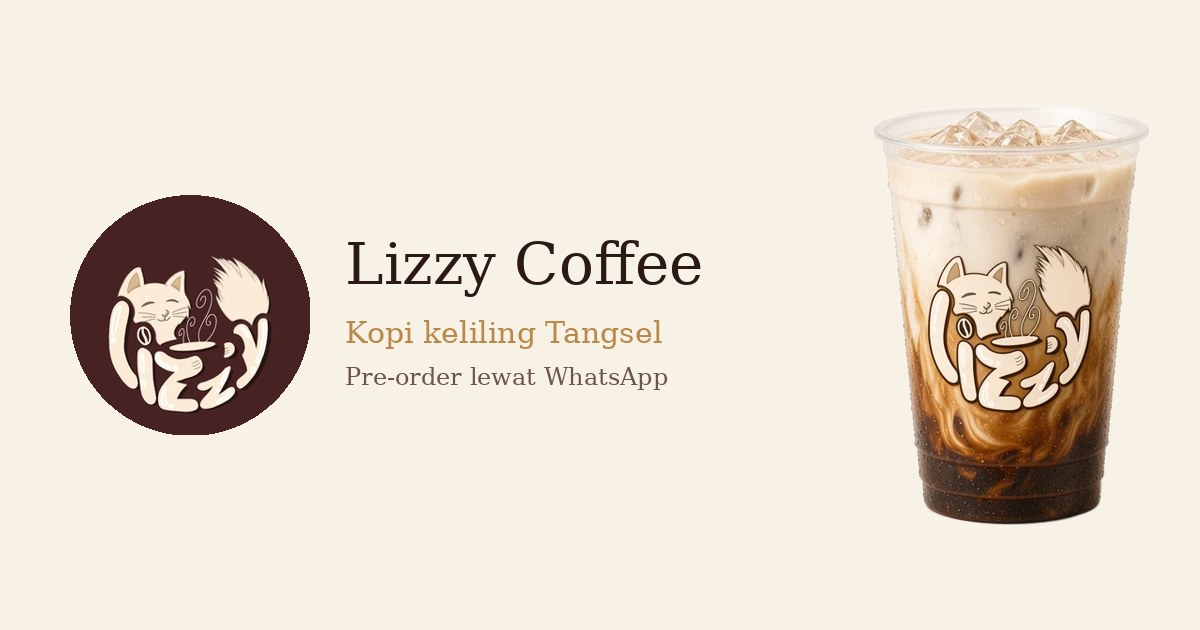
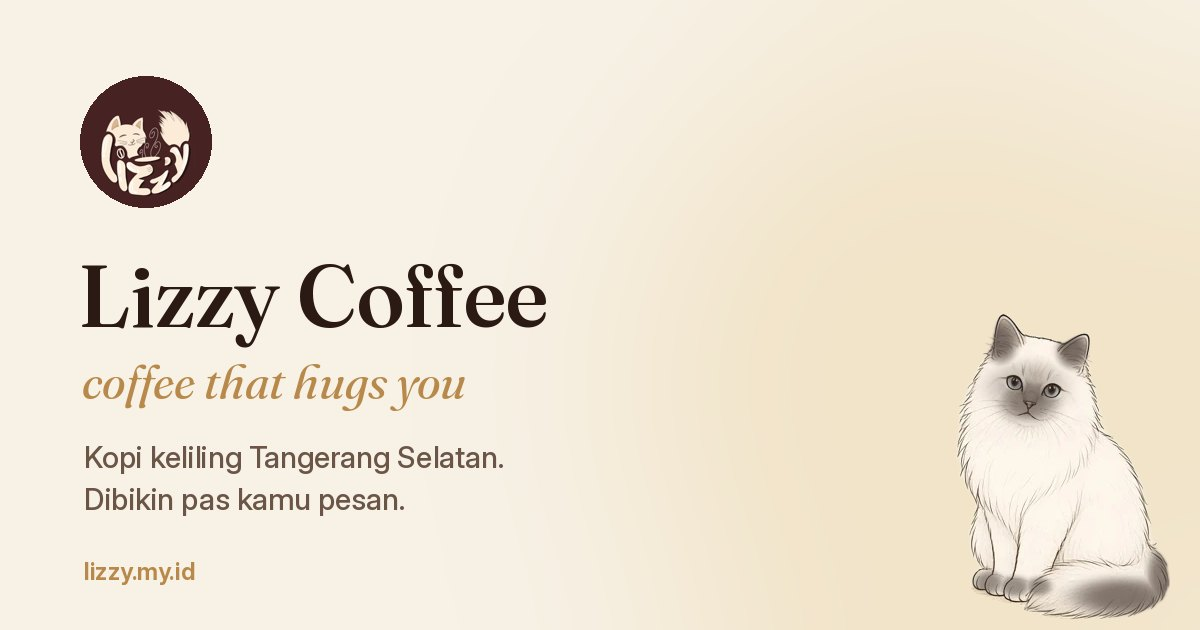
feat(landing): badge buka/istirahat live, Habis real-time, Find Lizzy today + petunjuk arah, OG/Twitter meta + og.jpg baru

diff --git a/src/scripts/live.js b/src/scripts/live.js
@@ -1,4 +1,7 @@
-// Status live: posisi Lizzy + menu habis, di-poll tiap 60 detik dari /api/public/status.
+// Status live: badge buka/istirahat, posisi Lizzy, 'Find Lizzy today', menu habis.
+// /api/public/status di-poll tiap 60 detik; /api/public/landing sekali saat load (soldOut per menu).
+// Gagal (CORS/jaringan) = diam: badge tetap hidden, data build-time dipakai.
+import L from 'leaflet';
 const API = (window.LZ_API || 'https://coffe.lizzy.my.id/api/public').replace(/\/$/, '');
 const KEY = 'lz-status';
 const titik = (() => { try { return JSON.parse(document.getElementById('landing-data').textContent).titik || []; } catch { return []; } })();
@@ -15,16 +18,69 @@ function apply(s) {
   document.querySelectorAll('[data-live-lbl]').forEach((el) => { el.textContent = hasEta ? 'Lizzy sekarang di' : 'Lagi di'; });
   document.querySelectorAll('[data-until-lbl]').forEach((el) => { el.textContent = hasEta ? 'buka s/d' : 'buka sampai jam'; });
   if (s.openUntil != null) set('until', s.openUntil);
-  if (Array.isArray(s.soldOut)) {
-    const out = new Set(s.soldOut);
-    document.querySelectorAll('.mitem[data-id]').forEach((li) => {
-      const isOut = out.has(li.dataset.id);
-      li.classList.toggle('out', isOut);
-      li.querySelectorAll('.mi-add').forEach((a) => { a.hidden = isOut; });
-    });
-  }
+  badge(s);
+  today(s);
   document.dispatchEvent(new CustomEvent('lz:status', { detail: s }));
 }
+
+const hhmm = (v) => String(v ?? '').trim().replace(/^(\d{1,2})[:.](\d{2}).*$/, (_, h, m) => `${h.padStart(2, '0')}.${m}`);
+function badge(s) {
+  const b = document.querySelector('[data-live-badge]'); if (!b || typeof s.open !== 'boolean') return;
+  const until = s.openUntil ? hhmm(s.openUntil) : '';
+  b.querySelector('[data-live-badge-txt]').textContent = s.open ? (until ? `Lizzy lagi buka, sampai ${until}` : 'Lizzy lagi buka') : 'Lagi istirahat';
+  b.classList.toggle('is-open', s.open); b.hidden = false;
+}
+
+// ---- Find Lizzy today (peta + petunjuk arah); tanpa titik = section tetap hidden ----
+let tMap, tMark;
+function today(s) {
+  const sec = document.querySelector('[data-today]'); if (!sec) return;
+  const t = s.titikId != null ? titik.find((x) => String(x.id) === String(s.titikId)) : null;
+  const lat = Number.isFinite(+s.lat) && s.lat !== null ? +s.lat : t ? +t.lat : NaN;
+  const lng = Number.isFinite(+s.lng) && s.lng !== null ? +s.lng : t ? +t.lng : NaN;
+  if (s.open === false || !Number.isFinite(lat) || !Number.isFinite(lng)) { sec.hidden = true; return; }
+  sec.hidden = false; sec.dataset.lat = lat; sec.dataset.lng = lng;
+  const nm = sec.querySelector('[data-today-name]'), ad = sec.querySelector('[data-today-addr]');
+  if (t) { nm.textContent = t.name; ad.textContent = t.address ?? ''; }
+  sec.querySelector('[data-today-dir]').href = `https://www.google.com/maps/dir/?api=1&destination=${lat},${lng}`;
+  drawToday(sec, lat, lng);
+}
+function drawToday(sec, lat, lng) {
+  const el = sec.querySelector('#mapToday'); if (!el) return;
+  if (!tMap) {
+    tMap = L.map(el, { zoomControl: false, scrollWheelZoom: false, dragging: !L.Browser.mobile, tap: false, attributionControl: true });
+    tMap.attributionControl.setPrefix('<a href="https://leafletjs.com">Leaflet</a>');
+    L.tileLayer('https://tile.openstreetmap.org/{z}/{x}/{y}.png', { attribution: '&copy; <a href="https://www.openstreetmap.org/copyright">OpenStreetMap</a> contributors', maxZoom: 19, referrerPolicy: 'strict-origin-when-cross-origin' }).addTo(tMap);
+    tMark = L.marker([lat, lng], { icon: L.divIcon({ className: 'lz-pin-wrap', html: '<div class="lz-pin"><span class="ring"></span><img src="img/logo.webp" alt=""></div>', iconSize: [54, 60], iconAnchor: [27, 64] }) }).addTo(tMap);
+  } else tMark.setLatLng([lat, lng]);
+  tMap.setView([lat, lng], 16, { animate: false });
+}
+{ const sec = document.querySelector('[data-today]'); if (sec && !sec.hidden && sec.dataset.lat) drawToday(sec, +sec.dataset.lat, +sec.dataset.lng); }
+
+// ---- 'Habis' real-time per menu (aturan: kalau SEMUA soldOut, abaikan) ----
+const norm = (x) => String(x ?? '').toLowerCase().replace(/[^a-z0-9]+/g, ' ').trim();
+async function stock() {
+  try {
+    const r = await fetch(`${API}/landing`, { headers: { Accept: 'application/json' } });
+    if (!r.ok) return;
+    const j = await r.json(); const d = j?.data ?? j;
+    const list = Array.isArray(d?.menuLengkap) ? d.menuLengkap : [];
+    if (!list.length) return;
+    const allOut = list.every((m) => m?.soldOut);
+    const byName = new Map(list.map((m) => [norm(m.name), !!m.soldOut])), byId = new Map(list.map((m) => [String(m.id), !!m.soldOut]));
+    document.querySelectorAll('.mitem[data-id]').forEach((li) => {
+      const v = byName.get(norm(li.dataset.n)) ?? byId.get(li.dataset.id);
+      if (v === undefined) return;
+      const isOut = allOut ? false : v;
+      li.classList.toggle('out', isOut);
+      li.querySelectorAll('.mi-add').forEach((a) => { a.hidden = isOut; });
+      let na = li.querySelector('.mi-na');
+      if (isOut && !na) { na = document.createElement('span'); na.className = 'mi-na'; na.textContent = 'Besok lagi ya'; li.querySelector('.mi-foot')?.append(na); }
+      if (na) na.hidden = !isOut;
+    });
+  } catch { /* CORS/jaringan: pakai data build-time */ }
+}
+stock();
 
 async function poll() {
   if (document.hidden) return;

diff --git a/src/styles/main.css b/src/styles/main.css
@@ -456,3 +456,17 @@ a.ojol-btn:active{transform:scale(.97)}
 .ojol-btn.is-soon img,.ojol-btn.is-soon b{opacity:.55}
 .ojol-btn em{position:absolute;top:-8px;right:-6px;font:600 9.5px/1 var(--sans);font-style:normal;letter-spacing:.04em;padding:4px 7px;border-radius:99px;background:var(--acc);color:var(--acc-ink);white-space:nowrap}
 @media (max-width:420px){.ojol-btn{min-width:0;flex:1;padding:0 10px}.ojol ul li{flex:1;display:flex}.ojol-btn img{height:15px}.o-shopeefood img{height:19px}.ojol-btn b{font-size:12px}}
+
+/* ===== live badge buka/istirahat ===== */
+.live-badge{justify-self:start;display:inline-flex;align-items:center;gap:8px;padding:6px 12px;border-radius:99px;background:var(--card);border:1px solid var(--line);font:600 12px var(--sans);color:var(--ink2)}
+.live-badge[hidden]{display:none}
+.lb-dot{width:8px;height:8px;border-radius:50%;background:var(--ink2);opacity:.5}
+.live-badge.is-open{color:var(--ink)}.live-badge.is-open .lb-dot{background:#4caf6a;opacity:1;box-shadow:0 0 0 3px rgba(76,175,106,.2)}
+
+/* ===== Find Lizzy today ===== */
+.today{padding:40px 20px}.today[hidden]{display:none}
+.today-card{display:grid;overflow:hidden;padding:0;margin-top:16px}
+.today-map{height:240px;position:relative}
+.today-info{display:grid;gap:6px;padding:16px 18px 18px}.today-info b{font:500 22px/1.2 var(--serif)}.today-info small{color:var(--ink2)}.today-info .btn{margin-top:8px;justify-self:start}
+@media (min-width:960px){.today{padding:60px max(40px,calc((100vw - 1400px)/2))}.today-card{grid-template-columns:1.6fr 1fr;align-items:center}.today-map{height:340px}.today-info{padding:28px}}
+.today-info b:empty,.today-info small:empty{display:none}
